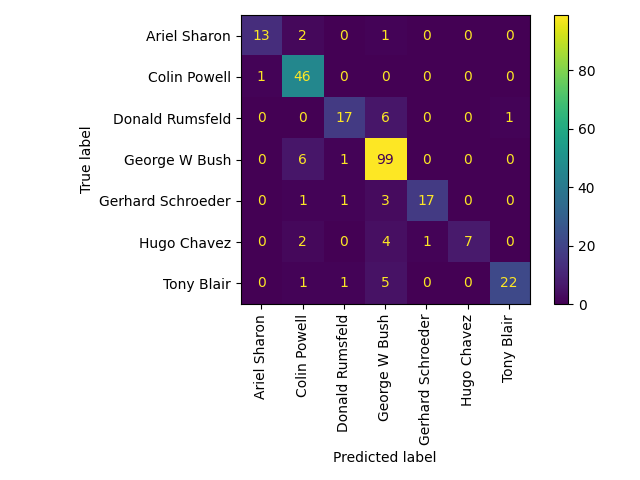
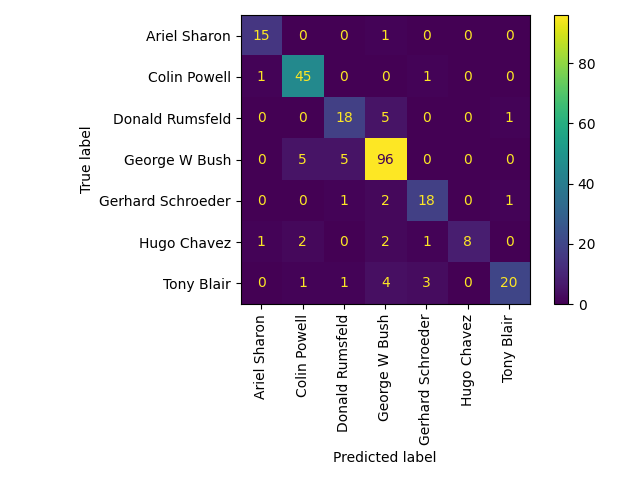
Mici modificari de cod.

diff --git a/dlib_alg.py b/dlib_alg.py
@@ -28,6 +28,7 @@ class DlibClassification(Base):
         self.failed_indices = []
         self.train_failures = 0
         self.test_failures = 0
+        self.end_to_end_accuracy=0.0
 
     def download_and_extract(self, filename, url):
         """Download and extract a .bz2 file."""
@@ -126,4 +127,9 @@ class DlibClassification(Base):
         self.split_data(X=self.face_embeddings, y=self.labels, original_indices=self.embedding_indices)
         self.train_model(model=KNeighborsClassifier())
         self.evaluate_model()
+        successful_test_images=len(self.y_test)
+        total_test_images=len(self.test_indices)
+        self.end_to_end_accuracy=self.accuracy*successful_test_images/total_test_images
+        print(f'Recognition accuracy: {self.accuracy:.2%}')
+        print(f'End to end accuracy: {self.end_to_end_accuracy:.2%}')
         self.print_results()

diff --git a/base.py b/base.py
@@ -115,6 +115,7 @@ class Base:
                 print(
                     f'Test set detection coverage: {(len(self.test_indices) - self.test_failures) / len(self.test_indices):.2%}',
                     file=f)
+                print(f'End to end accuracy: {self.end_to_end_accuracy:.2%}', file=f)
             print('-----\n', file=f)
 
     def split_data(self, X, y, stratify=None, original_indices=None):
